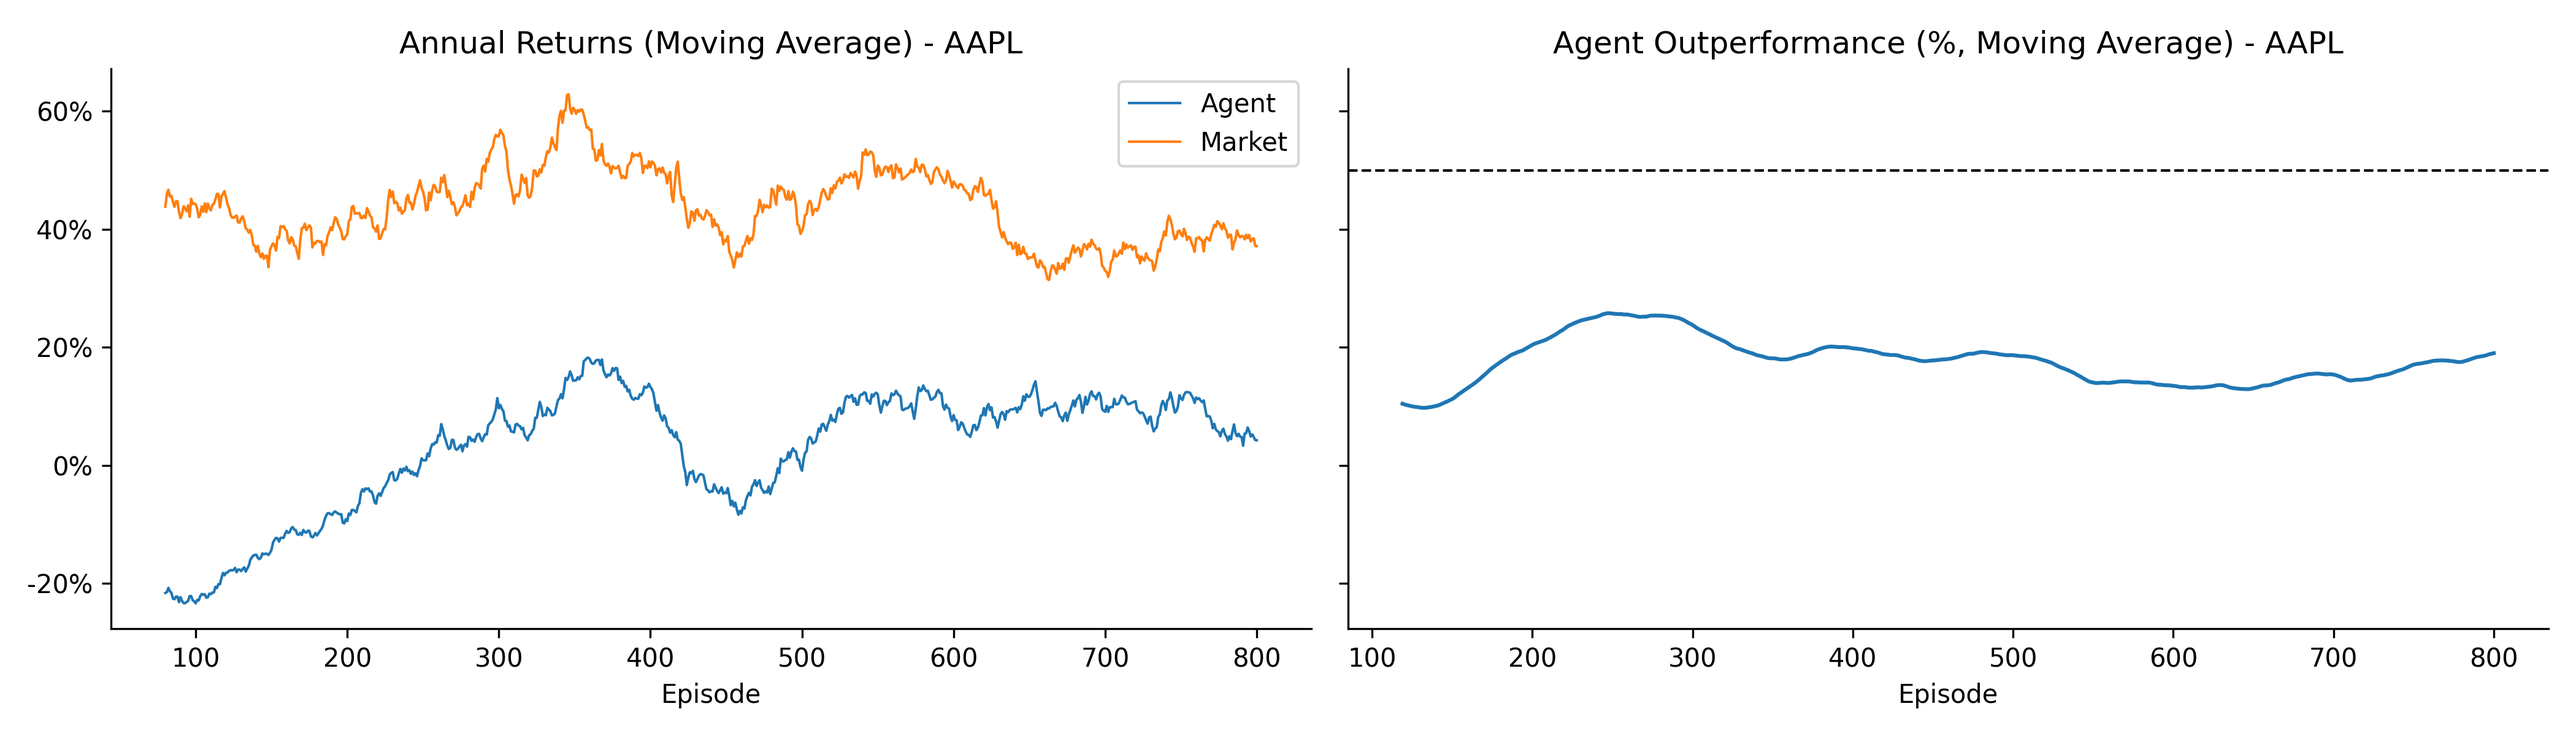
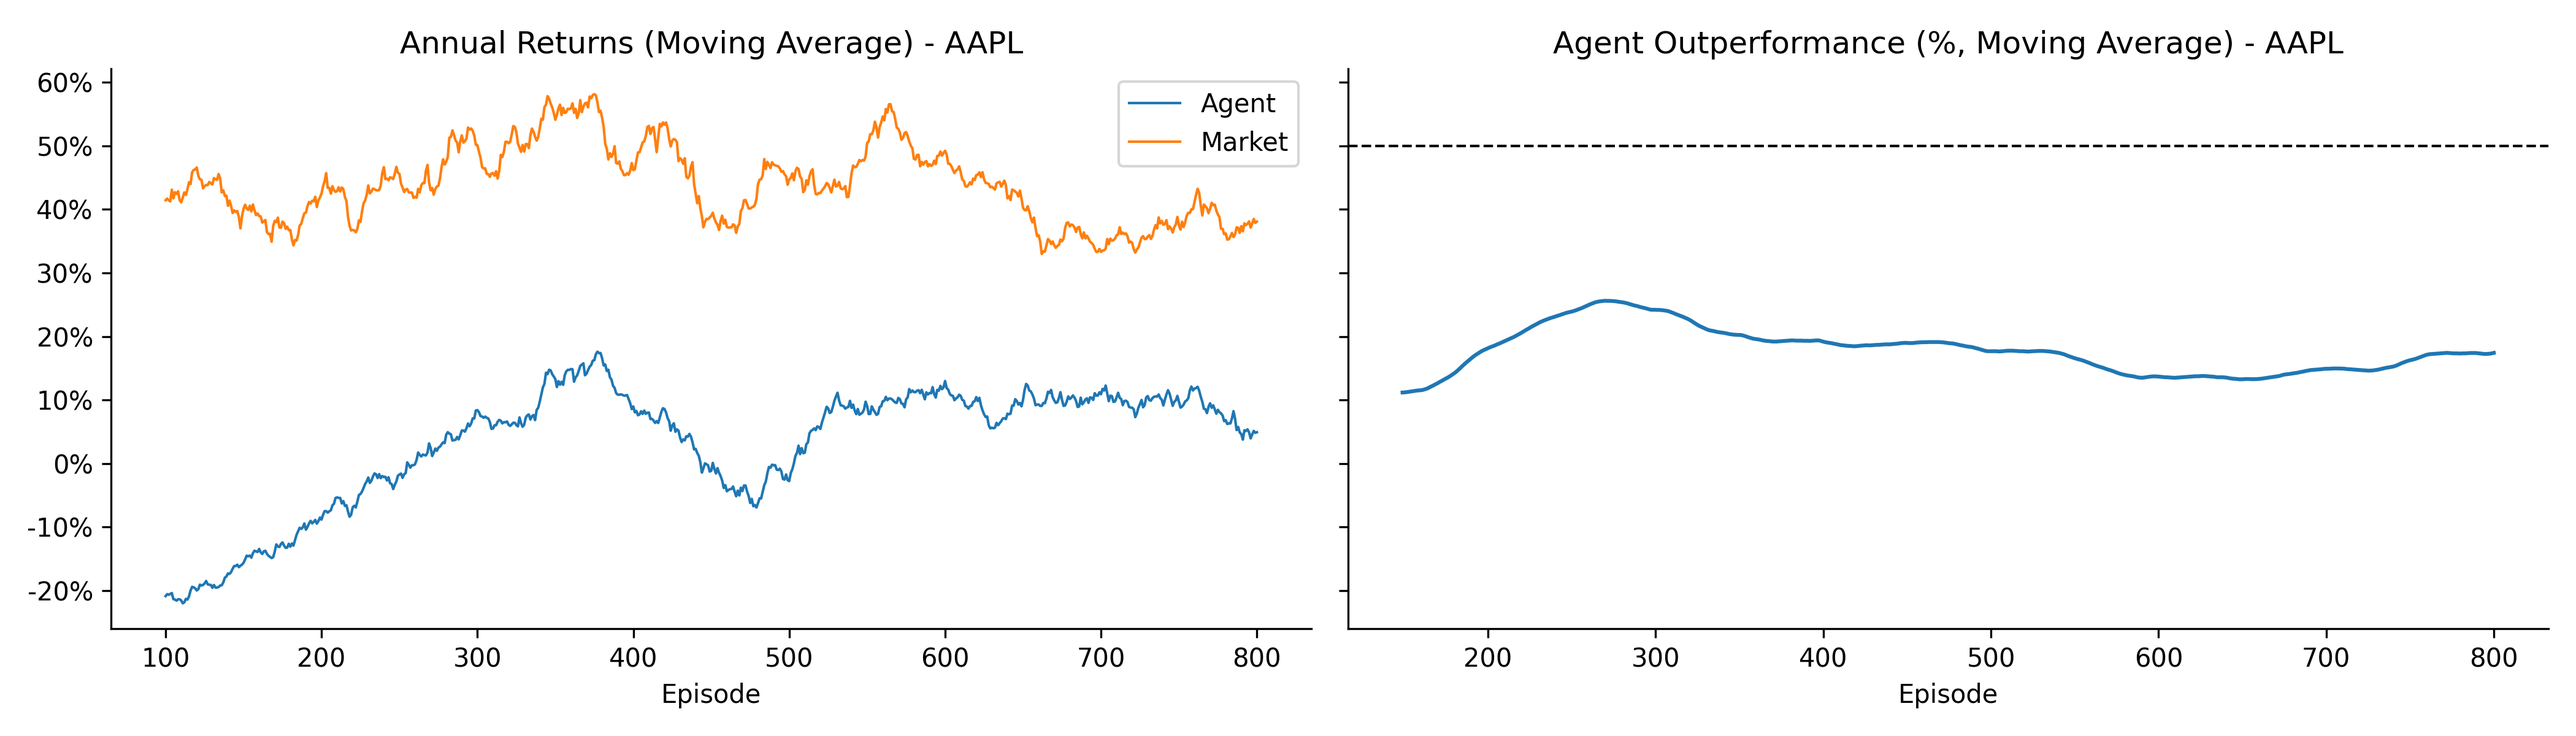
Update rolling in grouped results

diff --git a/group_results/group_results.py b/group_results/group_results.py
@@ -12,6 +12,8 @@ episodes_length = None
 tickers = None
 max_episodes = None
 
+rolling_pct = 0.01
+
 
 def graph_results(per_ticker_results, experiment):
     for ticker in tickers:
@@ -21,14 +23,14 @@ def graph_results(per_ticker_results, experiment):
 
         df1 = (results[['Agent', 'Market']]
                .sub(1)
-               .rolling(int(max_episodes*0.10))
+               .rolling(100)
                .mean())
         df1.plot(ax=axes[0],
                  title='Annual Returns (Moving Average) - {0}'.format(ticker),
                  lw=1)
 
         df2 = results['Strategy Wins (%)'].div(
-            int(max_episodes*0.10)).rolling(int(max_episodes*0.05)).mean()
+            100).rolling(50).mean()
         df2.plot(ax=axes[1],
                  title='Agent Outperformance (%, Moving Average) - {0}'.format(ticker))
 
@@ -76,8 +78,8 @@ def main():
             df['Episode'] = episodes
             df = df.set_index('Episode')
             per_ticker_results[ticker] = df.copy()
-            per_ticker_results[ticker]['Strategy Wins (%)'] = (per_ticker_results[ticker].Difference > 0).rolling(
-                int(max_episodes*0.10)).sum()
+            per_ticker_results[ticker]['Strategy Wins (%)'] = (
+                per_ticker_results[ticker].Difference > 0).rolling(100).sum()
 
         graph_results(per_ticker_results, experiment)
 
